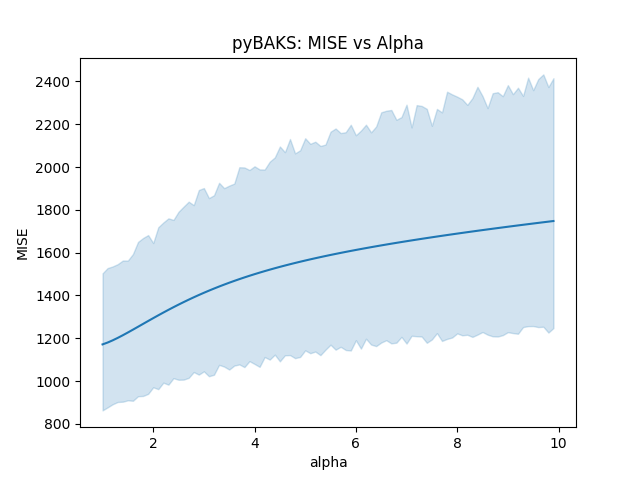
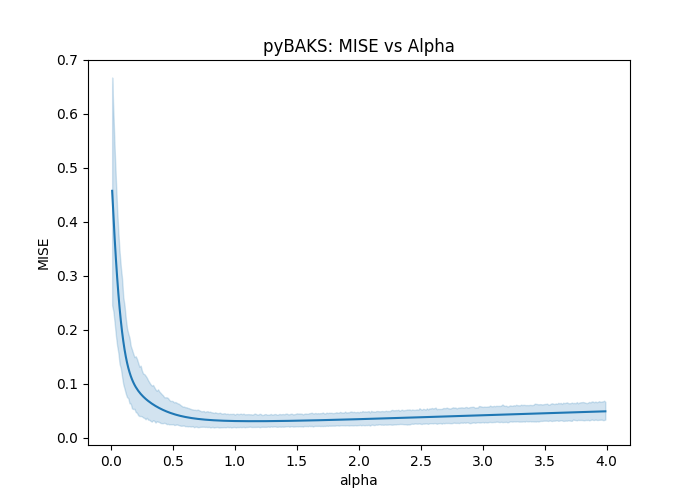
some bug fixes

diff --git a/pyBAKS/BAKS.py b/pyBAKS/BAKS.py
@@ -20,29 +20,30 @@ def BAKS(SpikeTimes, Time, a, b=None):
             raise ValueError("Spike array and time array must have the same length.")
         SpikeTimes = extract_spike_times(SpikeTimes, Time)
 
-    elif a < 1:
-        raise ValueError("according to Ahmadi et al., alpha (a) must be >= 1")
+    # elif a < 1:
+    #     raise ValueError("according to Ahmadi et al., alpha (a) must be >= 1")
 
     N = len(SpikeTimes)
-    sumnum = 0
-    sumdenum = 0
-
     if b is None:  # if b is not specified, use the default calculation from Ahmadi et al.
         b = N ** (4 / 5)
 
+    sumnum = 0
+    sumdenum = 0
+
     # calculate h (eq 11 in Ahmadi et al.)
     for i in range(N):
-        innerterm = ((((Time - SpikeTimes[i]) ** 2) / 2) + (1 / b))
-        numerator = innerterm ** (-a)
-        denumerator = innerterm ** (-a - 0.5)
+        numerator = (((Time - SpikeTimes[i]) ** 2) / 2 + 1 / b) ** (-a)
+        denumerator = (((Time - SpikeTimes[i]) ** 2) / 2 + 1 / b) ** (-a - 0.5)
         sumnum += numerator
         sumdenum += denumerator
-    h = (gamma(a) * sumnum) / (gamma(a + 0.5) * sumdenum)
+
+    h = (gamma(a)/gamma(a + 0.5)) * (sumnum / sumdenum)
 
     # calculate firing rate (eq 12 in Ahmadi et al.)
     FiringRate = np.zeros(len(Time))
     for j in range(N):
         K = (1 / (np.sqrt(2 * np.pi) * h)) * np.exp(-((Time - SpikeTimes[j]) ** 2) / (2 * h ** 2))
+
         FiringRate += K
 
     return FiringRate, h
@@ -72,24 +73,24 @@ def rolling_window(Spikes, dt, ws):
 
 
 def firingrate_loglike(Spikes, FiringRate):
+    if Spikes.sum() == 0:
+        raise ValueError("Spikes array is empty")
     if Spikes.ndim == 2:
-        loglike = np.sum(np.log((FiringRate ** Spikes * np.exp(-FiringRate)) / factorial(Spikes)), axis=1)
+        loglike = np.sum(np.log((FiringRate ** Spikes * np.exp(-FiringRate))), axis=1)
         if len(loglike) == 1:
-            loglike = loglike[0]
+            loglike = loglike.flatten()
     else:
-        loglike = np.sum(np.log((FiringRate ** Spikes * np.exp(-FiringRate)) / factorial(Spikes)))
+        loglike = np.sum(np.log((FiringRate ** Spikes * np.exp(-FiringRate))))
     return loglike
 
 
-def extract_spike_times(Spikes, Time, dt=0.001):
+def extract_spike_times(Spikes, Time):
     """
     :param Spikes: 1D binary emissions array
     :param Time: 1D time array same length as Spikes
     :param dt: time step--amount of time between each increment in time array
     :return: SpikeTimes: 1D array of spike times
     """
-
-    Time = Time*dt # convert to seconds
 
     if type(Spikes) == list:
         Spikes = np.array(Spikes)
@@ -107,7 +108,7 @@ def extract_spike_times(Spikes, Time, dt=0.001):
         return SpikeTimes
 
 
-def getMISE(true_rate, est_rate):
+def getMISE(true_rate, est_rate, dt=0.001):
     """
     getMISE is used to calculate the mean integrated square error (MISE) between the true rate and estimated rate.
     to use this tool, you should first generate a simulated "known" rate array, then use that to generate
@@ -117,8 +118,18 @@ def getMISE(true_rate, est_rate):
     :param est_rate: an array of the estimated rate
     :return MISE: mean integrated squared error between true rate and estimated rate
     """
-    nt = true_rate.shape[1]
-    MISE = np.sum((est_rate - true_rate) ** 2) / nt
+    # Ensure the arrays are numpy arrays
+    true_rate = np.array(true_rate)
+    est_rate = np.array(est_rate)
+
+    # Compute the squared errors
+    squared_errors = (true_rate - est_rate) ** 2
+
+    # Compute the mean of the squared errors
+    mean_squared_error = np.mean(squared_errors)
+
+    # Compute the MISE
+    MISE = dt * mean_squared_error
     return MISE
 
 
@@ -141,34 +152,32 @@ def spikearray_poissonsim(Spikes, Time):
         Time = Time.reshape(1, -1)
 
     n_time_bins = Spikes.shape[1]
-    time_range = Time[0, -1] - Time[0, 0]
 
-    dt = time_range / n_time_bins
-
+    dt = Time[0,1] - Time[0,0]
     sim_spikes = np.zeros(Spikes.shape)
     sim_rate = np.zeros(Spikes.shape)
-    step = int(n_time_bins / 4)
+    n_sim_bins = int(n_time_bins / 4)
     ntrls = Spikes.shape[0]
+
 
     for i in range(4):
         samp = np.random.randint(0, n_time_bins, size=2)
         start = np.min(samp)
         end = np.max(samp)
-
-        slice = Spikes[:, start:end]
-        slicerate = np.sum(slice, axis=1) / ((end - start) * dt)
-        sliceprob = slicerate / n_time_bins
-        sliceprob = sliceprob.reshape(-1, 1)
-        slice_vals = np.random.rand(ntrls, step)
-        slice_spikes = slice_vals <= sliceprob
-        sim_spikes[:, step * i:step * (i + 1)] = slice_spikes
-        sim_rate[:, step * i:step * (i + 1)] = slicerate.reshape(-1, 1)
+        nbins = end - start
+        arrslice = Spikes[:, start:end]
+        nspikes = arrslice.sum()
+        sliceprob = nspikes / nbins
+        slicerate = sliceprob / dt
+        slice_spikes = np.random.poisson(sliceprob, (ntrls, n_sim_bins))
+        sim_spikes[:, n_sim_bins * i:n_sim_bins * (i + 1)] = slice_spikes
+        sim_rate[:, n_sim_bins * i:n_sim_bins * (i + 1)] = slicerate.reshape(-1, 1)
 
     sim_time = Time
     return sim_spikes, sim_rate, sim_time
 
 
-def optimize_alpha_MISE(Spikes, Time, nIter=100, alpha_start=1, alpha_end=10, alpha_step=0.1):
+def optimize_alpha_MISE(Spikes, Time, nIter=100, alpha_start=0.01, alpha_end=4, alpha_step=0.01):
     """
     optimize_alpha is used to optimize alpha for BAKS from a 1D array of real spiking data.
     it uses the real data to generate a simulated spike array with known rate,
@@ -184,19 +193,27 @@ def optimize_alpha_MISE(Spikes, Time, nIter=100, alpha_start=1, alpha_end=10, al
     :return: df: pandas dataframe with iternums, MISEs, and alphas
     :return: best_alpha: alpha value with lowest MISE
     """
+    if Spikes.ndim == 2: # if Spikes is a 2D array, flatten it
+        Spikes = Spikes.flatten()
+        Time = Time.flatten()
+
+    dt = Time[1] - Time[0]
 
     alpha_range = np.arange(alpha_start, alpha_end, alpha_step)
     iternums = []
     MISEs = []
     alphas = []
     likelihoods = []
-    for iter in range(nIter):
+    for i in range(nIter):
         sim_spikes, sim_rate, sim_time = spikearray_poissonsim(Spikes, Time)
+        sim_spikes = sim_spikes.flatten()
+        sim_rate = sim_rate.flatten()
+        sim_time = sim_time.flatten()
         sim_spiketimes = extract_spike_times(sim_spikes, sim_time)
         for a in alpha_range:
-            BAKSrate, h, = BAKS(sim_spiketimes, Time, a)
+            BAKSrate, h, = BAKS(sim_spiketimes, sim_time, a)
             lh = firingrate_loglike(sim_spikes, BAKSrate)
-            MISE = getMISE(sim_rate, BAKSrate)
+            MISE = getMISE(sim_rate, BAKSrate, dt)
             iternums.append(iter)
             MISEs.append(MISE)
             alphas.append(a)
@@ -216,24 +233,24 @@ def optimize_alpha_MISE(Spikes, Time, nIter=100, alpha_start=1, alpha_end=10, al
 
 def parse_dims(Spikes):
     ndim = None
-    kind = None
-    if isinstance(Spikes, pd.Series):
-        kind = 'series'
+    kind = type(Spikes)
+
+    if kind == np.ndarray:
         # determine if Spikes is a list of arrays or a single array
-        if isinstance(Spikes.iloc[0], np.ndarray):
-            ndim = 2
-        else:
-            ndim = 1
-    elif isinstance(Spikes, list):
-        kind = 'list'
+        ndim = Spikes.ndim
+
+    elif kind == list:
         # determine if Spikes is a list of arrays or a single array
         if isinstance(Spikes[0], np.ndarray):
             ndim = 2
         else:
             ndim = 1
-    elif isinstance(Spikes, np.ndarray):
-        kind = 'numpy'
-        ndim = Spikes.ndim
+
+    elif kind == pd.core.series.Series:
+        if isinstance(Spikes.iloc[0], np.ndarray):
+            ndim = 2
+        else:
+            ndim = 1
 
     if ndim is None or kind is None:
         raise ValueError("Spikes is not a list, array, or pandas series")
@@ -241,7 +258,7 @@ def parse_dims(Spikes):
         return ndim, kind
 
 
-def optimize_alpha_MLE(Spikes, Time, alpha_start=1, alpha_end=10.1, alpha_step=0.1, dt=0.001, ndim=None, kind=None, unitID=None, output_df=True):
+def optimize_alpha_MLE(Spikes, Time, alpha_start=0.01, alpha_end=5, alpha_step=0.01, dt=0.001, ndim=None, kind=None, unitID=None, output_df=True):
     # generate alphas to be optimized over
     alpha_range = np.arange(alpha_start, alpha_end, alpha_step)
     df = None
@@ -253,7 +270,7 @@ def optimize_alpha_MLE(Spikes, Time, alpha_start=1, alpha_end=10.1, alpha_step=0
     bandwidths = []
 
     def get_BAKS():
-        spiketimes = extract_spike_times(spk, tm, dt)
+        spiketimes = extract_spike_times(spk, tm)
         for a in alpha_range:
             BAKSrate, h, = BAKS(spiketimes, tm, a)
             ll = firingrate_loglike(spk, BAKSrate)
@@ -303,13 +320,13 @@ def optimize_alpha_MLE(Spikes, Time, alpha_start=1, alpha_end=10.1, alpha_step=0
         if unitID is not None:
             df['unitID'] = unitID
 
-    if kind == 'numpy':
+    if kind == np.ndarray:
         if ndim > 1:
             best_FiringRate = best_FiringRate.to_numpy()
             best_FiringRate = np.vstack(best_FiringRate)
-    elif kind == 'list':
+    elif kind == list:
         best_FiringRate = best_FiringRate.to_list()
-    elif kind == 'series':
+    elif kind == pd.core.series.Series:
         action = "do nothing"
     else:
         raise ValueError("Spikes is not a list, array, or pandas series")
@@ -356,14 +373,14 @@ def optimize_window_MISE(Spikes, Time, nIter=100, ws_start=0.1, ws_end=None, ws_
     :return: best_alpha: alpha value with lowest MISE
     """
 
-    if Spikes.ndim == 1:
-        Spikes = Spikes.reshape(1, -1)
-        Time = Time.reshape(1, -1)
+    if Spikes.ndim == 2:
+        Spikes = Spikes.flatten()
+        Time = Time.flatten()
 
     if ws_end is None:
-        ws_end = Time[0, -1] - Time[0, 0]
+        ws_end = Time[-1] - Time[0]
 
-    dt = Time[0, 1] - Time[0, 0]
+    dt = Time[1] - Time[0]
     window_range = np.arange(ws_start, ws_end, ws_step)
 
     iternums = []
@@ -373,9 +390,13 @@ def optimize_window_MISE(Spikes, Time, nIter=100, ws_start=0.1, ws_end=None, ws_
 
     for iter in range(nIter):
         sim_spikes, sim_rate, sim_time = spikearray_poissonsim(Spikes, Time)
+        sim_spikes = sim_spikes.flatten()
+        sim_rate = sim_rate.flatten()
+        sim_time = sim_time.flatten()
+
         for ws in window_range:
             rolling_rate, lh = rolling_window(sim_spikes, dt, ws)
-            MISE = getMISE(sim_rate, rolling_rate)
+            MISE = getMISE(sim_rate, rolling_rate, dt)
             iternums.append(iter)
             MISEs.append(MISE)
             windows.append(ws)

diff --git a/pyBAKS/BAKS_test.py b/pyBAKS/BAKS_test.py
@@ -113,15 +113,18 @@ def test_sim_data():
     #set the title of the plot
     plt.title("Simulated Events and Latent Rates")
     plt.savefig(save_dir + "simulated_data.png")
+    plt.show()
 
 
     df, best_window_size = pyBAKS.optimize_window_MISE(Spikes, Time, 10)
     #plot MISE vs window size
     MISE = df['MISE']
     window_size = df['window_size']
-    sns.lineplot(x=window_size, y=MISE)
-    plt.title("Rolling Window: MISE vs Window Size")
+    fig, axs = plt.subplots(1, 1, figsize=(7, 5))
+    sns.lineplot(x=window_size, y=MISE, ax=axs)
+    plt.title("Rolling Window: MISE vs Window Size (s)")
     plt.savefig(save_dir + "rolling_window_MISE.png")
+    plt.show()
 
     winRate_MISE, _, _ = pyBAKS.get_optimized_rolling_rates_MISE(Spikes, Time, nIter=30)
 
@@ -142,14 +145,40 @@ def test_sim_data():
     #plot MISE vs alpha
     MISE = df['MISE']
     alpha = df['alpha']
-    sns.lineplot(x=alpha, y=MISE)
+    fig, axs = plt.subplots(1, 1, figsize=(7, 5))
+    sns.lineplot(x=alpha, y=MISE, ax=axs)
     plt.title("pyBAKS: MISE vs Alpha")
     plt.savefig(save_dir + "pyBAKS_MISE.png")
+    plt.show()
 
-    BAKSrate_MISE, h, ba_MISE = pyBAKS.get_optimized_BAKSrates_MISE(Spikes, Time, nIter=30)
-
+    BAKSrate_MISE, h, ba_MISE = pyBAKS.get_optimized_BAKSrates_MISE(Spikes, Time, nIter=10)
+    fig, axs = plt.subplots(1, 1, figsize=(10, 5))
+    axs.plot(Time, Rates, label="True Rates", color='red')
+    axs.plot(Time, BAKSrate_MISE, label="MISE-Optimized pyBAKS", color='blue')
+    axs.set_ylabel("Rate")
+    plt.title("True Rates vs MISE-Optimized pyBAKS")
+    plt.legend()
+    plt.show()
 
     OAdf, BAKSrate_MLE, ba_MLE = pyBAKS.optimize_alpha_MLE(Spikes, Time)
+
+    LL = OAdf['log_likelihood']
+    alpha = OAdf['alpha']
+    fig, axs = plt.subplots(1, 1, figsize=(7, 5))
+    sns.lineplot(x=alpha, y=LL, ax=axs)
+    plt.title("pyBAKS: Log Likelihood vs Alpha")
+    plt.savefig(save_dir + "pyBAKS_MLE.png")
+    plt.show()
+
+    fig, axs = plt.subplots(1, 1, figsize=(10, 5))
+    axs.plot(Time, Rates, label="True Rates", color='red')
+    axs.plot(Time, BAKSrate_MLE, label="MLE-Optimized pyBAKS", color='blue')
+    axs.set_ylabel("Rate")
+    plt.title("True Rates vs MLE-Optimized pyBAKS")
+    plt.legend()
+    plt.show()
+
+
 
     pyBAKS.plot_spike_train_vs_BAKS_vs_rolling(Spikes, Rates, BAKSrate_MISE, winRate_MISE.flatten(), Time)
     pyBAKS.plot_spike_train_vs_BAKS_vs_rolling(Spikes, Rates, BAKSrate_MLE, winRate_MLE.flatten(), Time)
